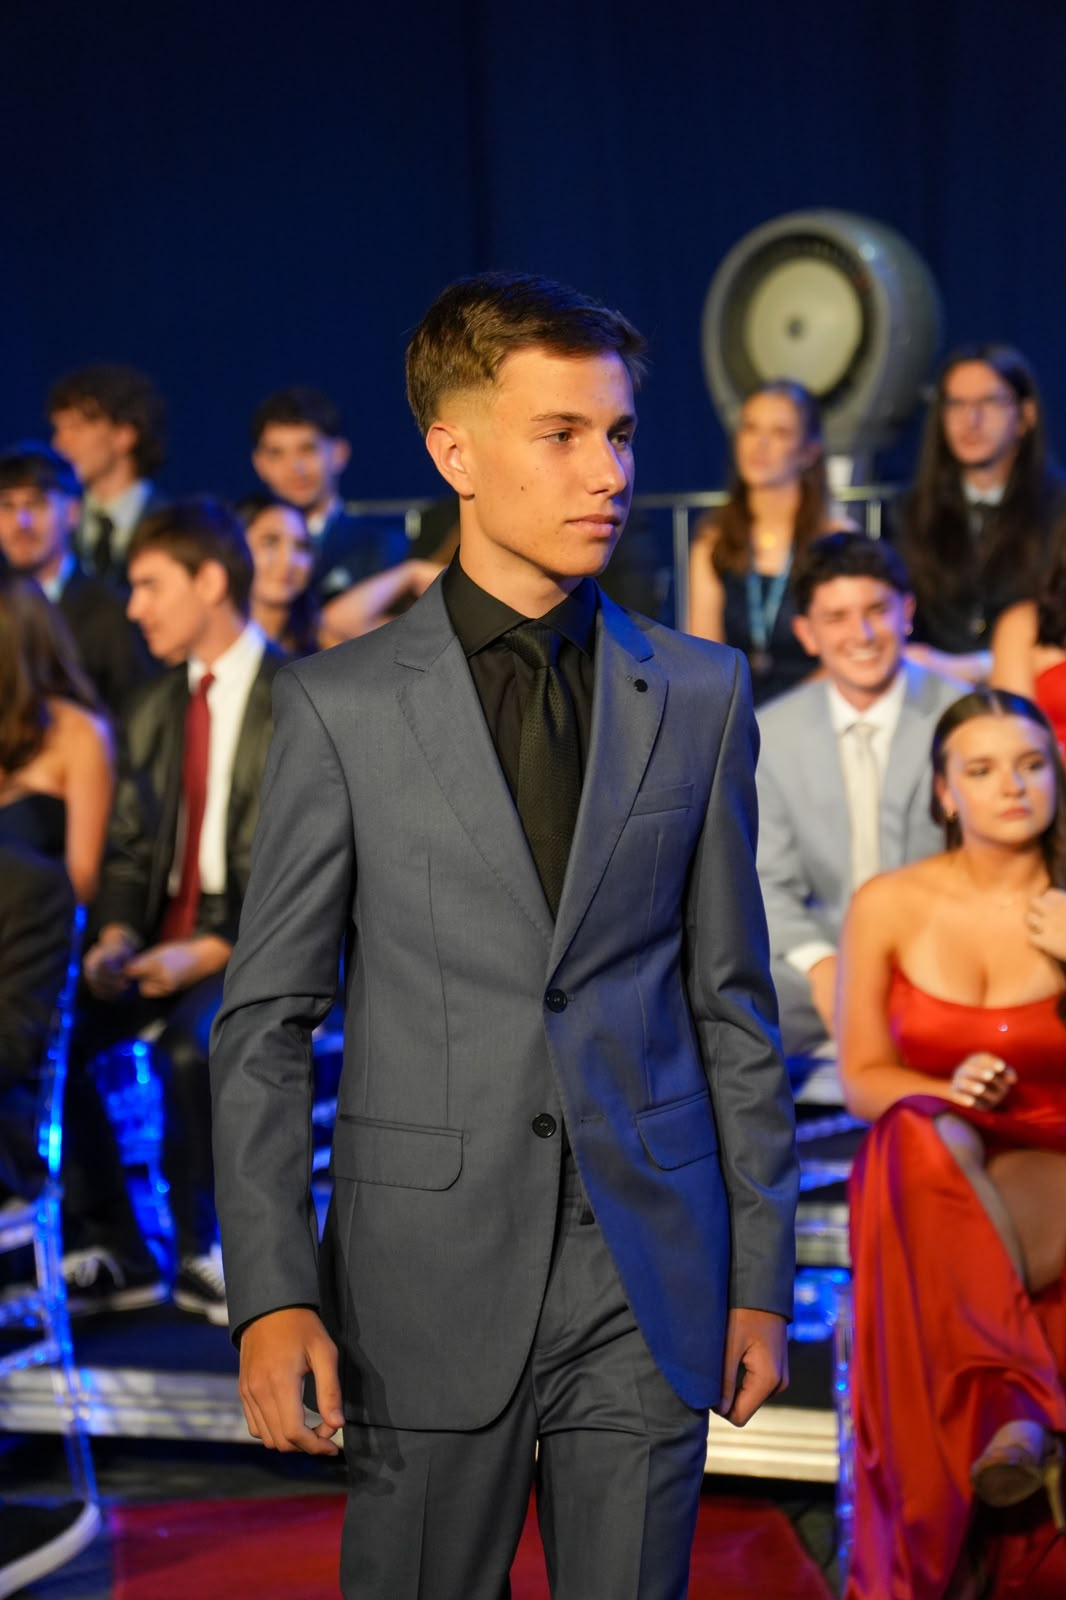
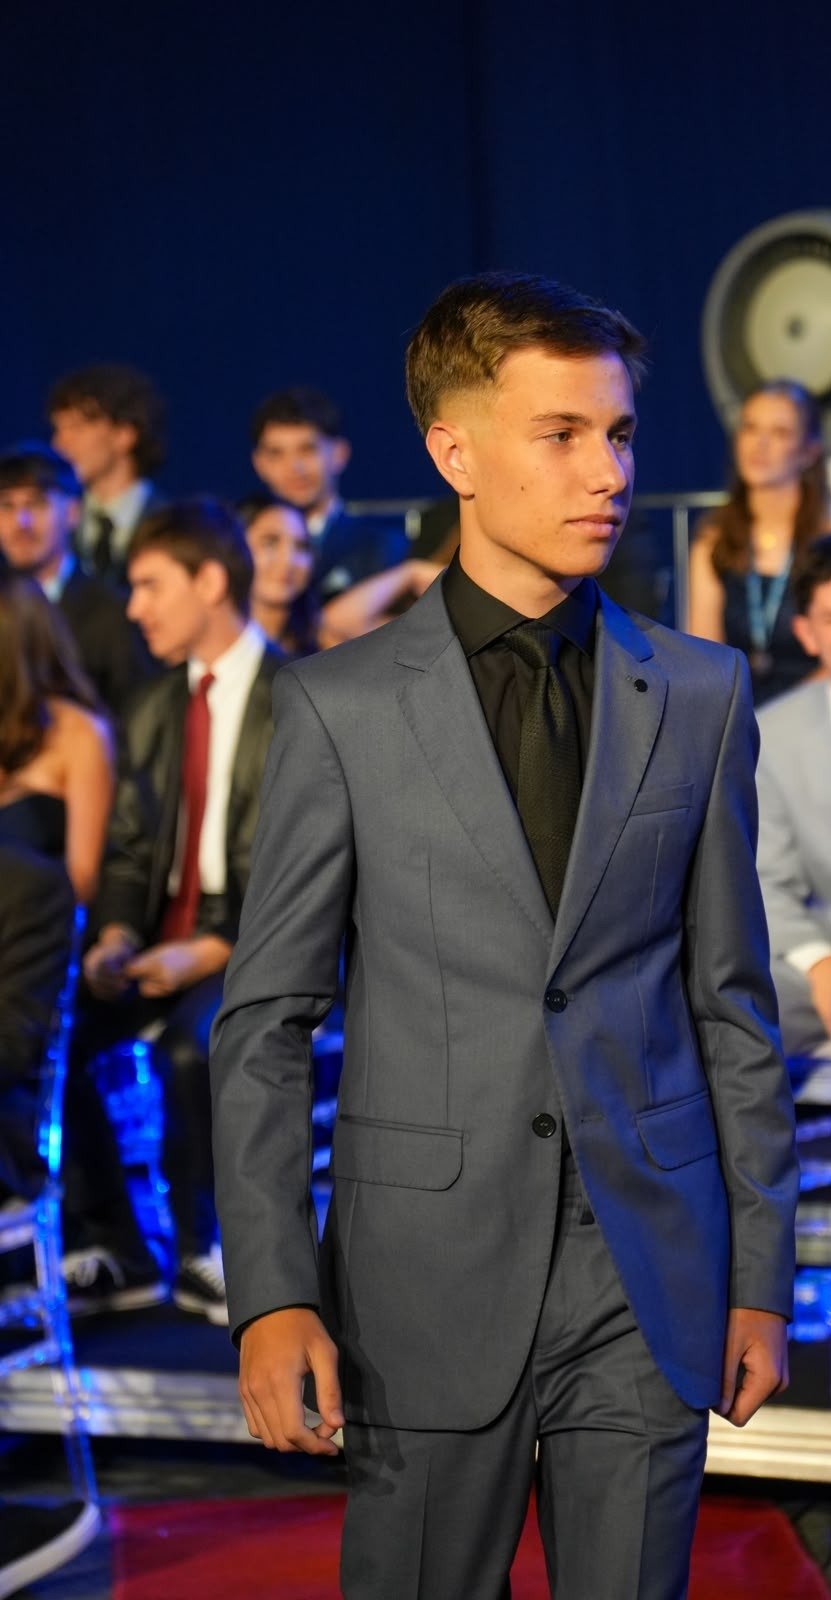
fix: retirada da garota ao lado do vini

diff --git a/src/sections/About.tsx b/src/sections/About.tsx
@@ -32,7 +32,7 @@ const TEAM: Member[] = [
     name: "Vinicius Alves Motta",
     role: "DevOps & Support Manager",
     photo: "/brand/team-devops.jpeg",
-    objectPosition: "50% 30%",
+    objectPosition: "55% 28%",
     bio: "Mantém deploy, infraestrutura e suporte funcionando para o sistema continuar confiável depois da entrega.",
     skills: ["DevOps", "Docker", "Cloud", "Suporte"],
   },
